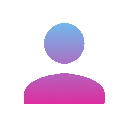
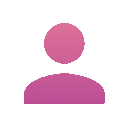
MOF1 Configs are added

Changed region(s): [[0.3438, 0.1562, 0.6875, 0.5], [0.1875, 0.5625, 0.8125, 0.7188], [0.1875, 0.75, 0.8438, 0.8125]]

diff --git a/css/configs.css b/css/configs.css
@@ -7,26 +7,26 @@ Change these colors or fonts according to your needs*/
     --subBgST : #292e394d;
     --c_white : #dfdfdf;
     --c_whiteST : #ffffffb3;
-    --accentColor : #2196f3;
-    --accentColorST : #2195f369;
-    --l-accentColor : #43B4FF;
+    --accentColor : #E6799A;
+    --accentColorST : #E6799A69;
+    --l-accentColor : #faa8c1;
 
     --dirty: #757575;
     --dirty-light: #a3a3a3;
 
 
-    --gradientColor1 : #54dcff;
-    --gradientColor2 : #FF0186;
-    --gradientColor3 : #54dcff;
-    --gradientColor4 : #FF0186;
+    --gradientColor1 : #B24592;
+    --gradientColor2 : #E6799A;
+    --gradientColor3 : #B24592;
+    --gradientColor4 : #E6799A;
     --gradientColor5 : #FFFFFF;
 
 
     --purple: #987bff;
     --purple-dark: #592bff;
 
-    --orange: #ff6cb8;
-    --orange-dark: #FF0186;
+    --orange: #E6799A;
+    --orange-dark: #ca2053;
 
     --orange2: #6797ff;
     --orange2-dark: #2351b4;
